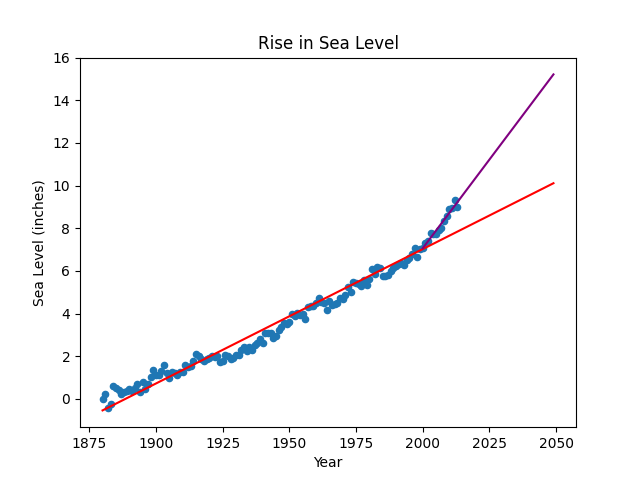
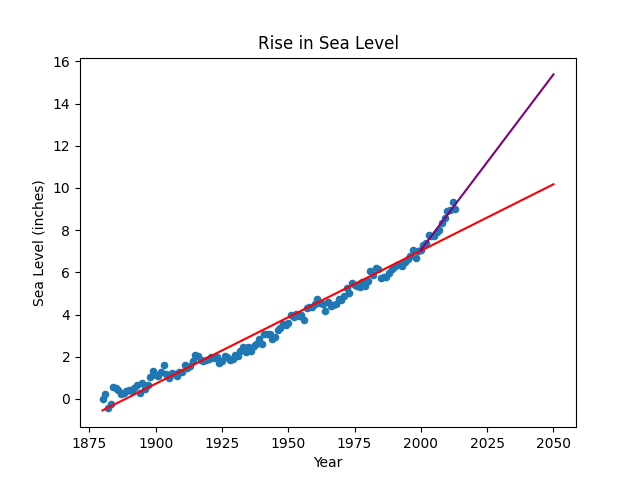
made adjustments to pass test file

diff --git a/sea_level_predictor.py b/sea_level_predictor.py
@@ -13,13 +13,13 @@ def draw_plot():
     df.plot.scatter(x='Year',y='CSIRO Adjusted Sea Level')
     # Create first line of best fit
     linReg1 = linregress(df['Year'],df['CSIRO Adjusted Sea Level'])
-    x1 = np.arange(df['Year'].min(),2050,1)
+    x1 = np.arange(df['Year'].min(),2051,1)
     y1 = x1 * linReg1.slope + linReg1.intercept
     plt.plot(x1,y1,'r')
     # Create second line of best fit
     dfAdj = df[df['Year'] >= 2000]
     linReg2 = linregress(dfAdj['Year'],dfAdj['CSIRO Adjusted Sea Level'])
-    x2 = np.arange(2000,2050,1)
+    x2 = np.arange(2000,2051,1)
     y2 = x2 * linReg2.slope + linReg2.intercept
     plt.plot(x2,y2,'purple')
 

diff --git a/main.py b/main.py
@@ -6,4 +6,4 @@ from unittest import main
 sea_level_predictor.draw_plot()
 
 # Run unit tests automatically
-#main(module='test_module', exit=False)
+main(module='test_module', exit=False)
